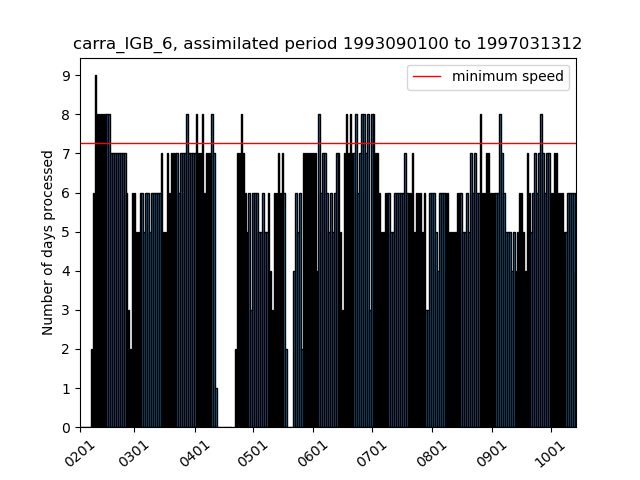
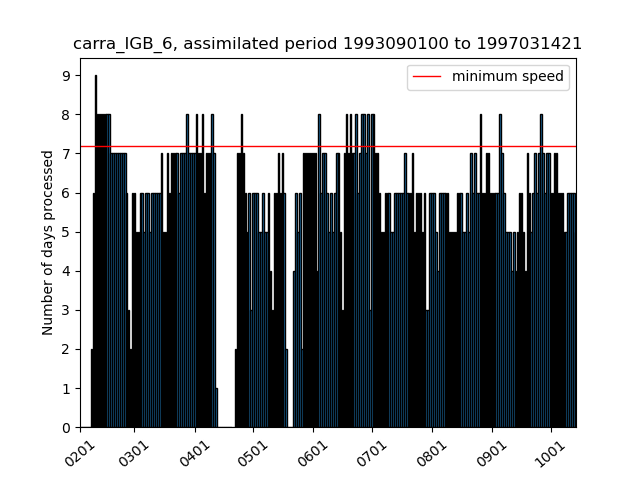
update repo

Changed region(s): [[0.125, 0.2812, 0.9062, 0.3125], [0.8438, 0.0625, 0.9062, 0.125]]

diff --git a/current_state_sims.html b/current_state_sims.html
@@ -2,18 +2,18 @@
 <h1>Estimated completion dates and simulation speeds</h1>
 <p>Stream (production) completion date based on 30d (7d) moving avg speed</p>
 <p><a href="https://docs.google.com/document/d/1zDKAxuEXYnWWYzT3SZnZwY5WW8nodUMeYRjAGz46coc/edit#">Details of the calculation of the completion dates</a></p>
-<p>Last update: 2021/10/15 00:40:41 UTC</p>
+<p>Last update: 2021/10/15 06:44:41 UTC</p>
 <p>Total progress CARRA: 99.66% <a href="https://hirlam.org/portal/CARRA/Progress/GanntChart_CARRA.html"> (see detailed progress meter in Gantt chart) </a></p>
 <p>Total progress PANARCTIC: 91.67% </p>
 <p><a href="https://hirlam.org/portal/CARRA/Progress/waiting_times.html"> Queue waiting times for all streams</a></p>
 <p><a href="https://hirlam.org/portal/CARRA/Progress/mars_status.html"> MARS archive throughput </a></p>
 <html><table border="1"><tr><th>expId</th><th>Current assimilated date</th><th>End date of stream </th><th> Completion date</th><th> Avg. throughput (7d) </th> <th>Avg. throughput (30d) </th> <th> Remarks</tr>
-<tr bgcolor="#33FF38"><td>carra_NE_3</td><td>2021070100</td><td>2021063021</td><td>2021101404</td><td>(0.14) days/day</td><td>(1.17) days/day</td><td>Stream finished</tr>
+<tr bgcolor="#33FF38"><td>carra_NE_3</td><td>2021070100</td><td>2021063021</td><td>2021101410</td><td>(0.14) days/day</td><td>(1.17) days/day</td><td>Stream finished</tr>
 <tr bgcolor="#33FF38"><td>carra_NE_4</td><td>1992090100</td><td>1992083021</td><td>Finished on 20210824</td><td>(0.0) days/day</td><td>(0.0) days/day</td><td>Stream finished</tr>
 <tr bgcolor="#33FF38"><td>carra_NE_5</td><td>1994090100</td><td>1994083021</td><td>Finished on 20210824</td><td>(0.0) days/day</td><td>(0.0) days/day</td><td>Stream finished</tr>
-<tr bgcolor="#33FF38"><td>carra_NE_6</td><td>1997070100</td><td>1997063021</td><td>2021101000</td><td>(0.0) days/day</td><td>(0.2) days/day</td><td>Stream finished</tr>
-<tr bgcolor="#33FF38"><td>carra_IGB_3</td><td>2021070100</td><td>2021063021</td><td>2021101406</td><td>(0.14) days/day</td><td>(1.3) days/day</td><td>Stream finished</tr>
+<tr bgcolor="#33FF38"><td>carra_NE_6</td><td>1997070100</td><td>1997063021</td><td>2021101006</td><td>(0.0) days/day</td><td>(0.2) days/day</td><td>Stream finished</tr>
+<tr bgcolor="#33FF38"><td>carra_IGB_3</td><td>2021070100</td><td>2021063021</td><td>2021101412</td><td>(0.14) days/day</td><td>(1.3) days/day</td><td>Stream finished</tr>
 <tr bgcolor="#33FF38"><td>carra_IGB_4</td><td>1992090100</td><td>1992083021</td><td>Finished on 20210907</td><td>(0.0) days/day</td><td>(0.0) days/day</td><td>Stream finished</tr>
-<tr bgcolor="#33FF38"><td>carra_IGB_5</td><td>1994090100</td><td>1994083021</td><td>2021101401</td><td>(0.0) days/day</td><td>(2.1) days/day</td><td>Stream finished</tr>
-<tr bgcolor="#FFA500"><td>carra_IGB_6</td><td>1997031312</td><td>1997063021</td><td>2021110123</td><td>(5.43) days/day</td><td>(6.07) days/day</td><td>Completion date after project end (20211031)</tr>
-<tr bgcolor="#33FF38"><td>carra_pan</td><td>2018090100</td><td>2018090100</td><td>2021101500</td><td>(0.14) days/day</td><td>(2.73) days/day</td><td>Stream finished</tr>
+<tr bgcolor="#33FF38"><td>carra_IGB_5</td><td>1994090100</td><td>1994083021</td><td>2021101407</td><td>(0.0) days/day</td><td>(2.1) days/day</td><td>Stream finished</tr>
+<tr bgcolor="#FFA500"><td>carra_IGB_6</td><td>1997031421</td><td>1997063021</td><td>2021110123</td><td>(5.57) days/day</td><td>(6.1) days/day</td><td>Completion date after project end (20211031)</tr>
+<tr bgcolor="#33FF38"><td>carra_pan</td><td>2018090100</td><td>2018090100</td><td>2021101506</td><td>(0.14) days/day</td><td>(2.73) days/day</td><td>Stream finished</tr>
